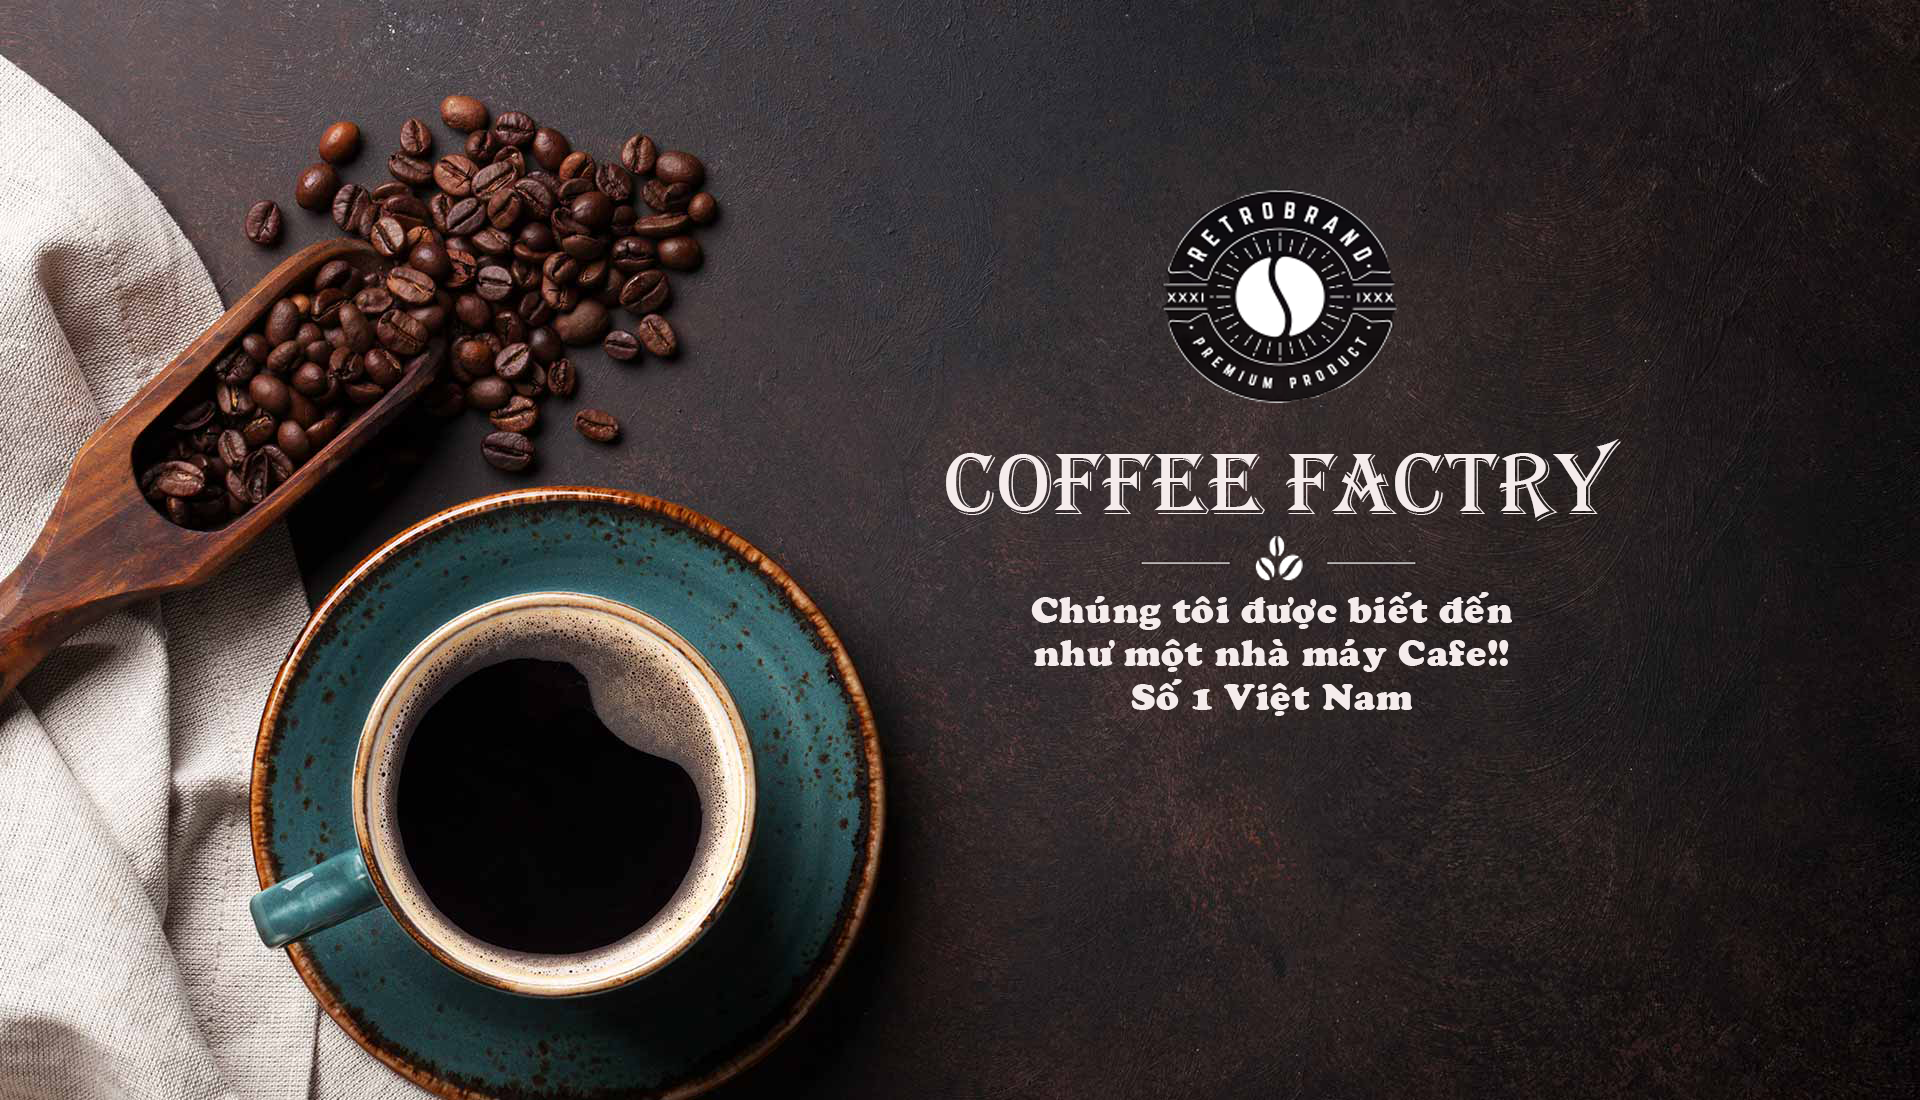
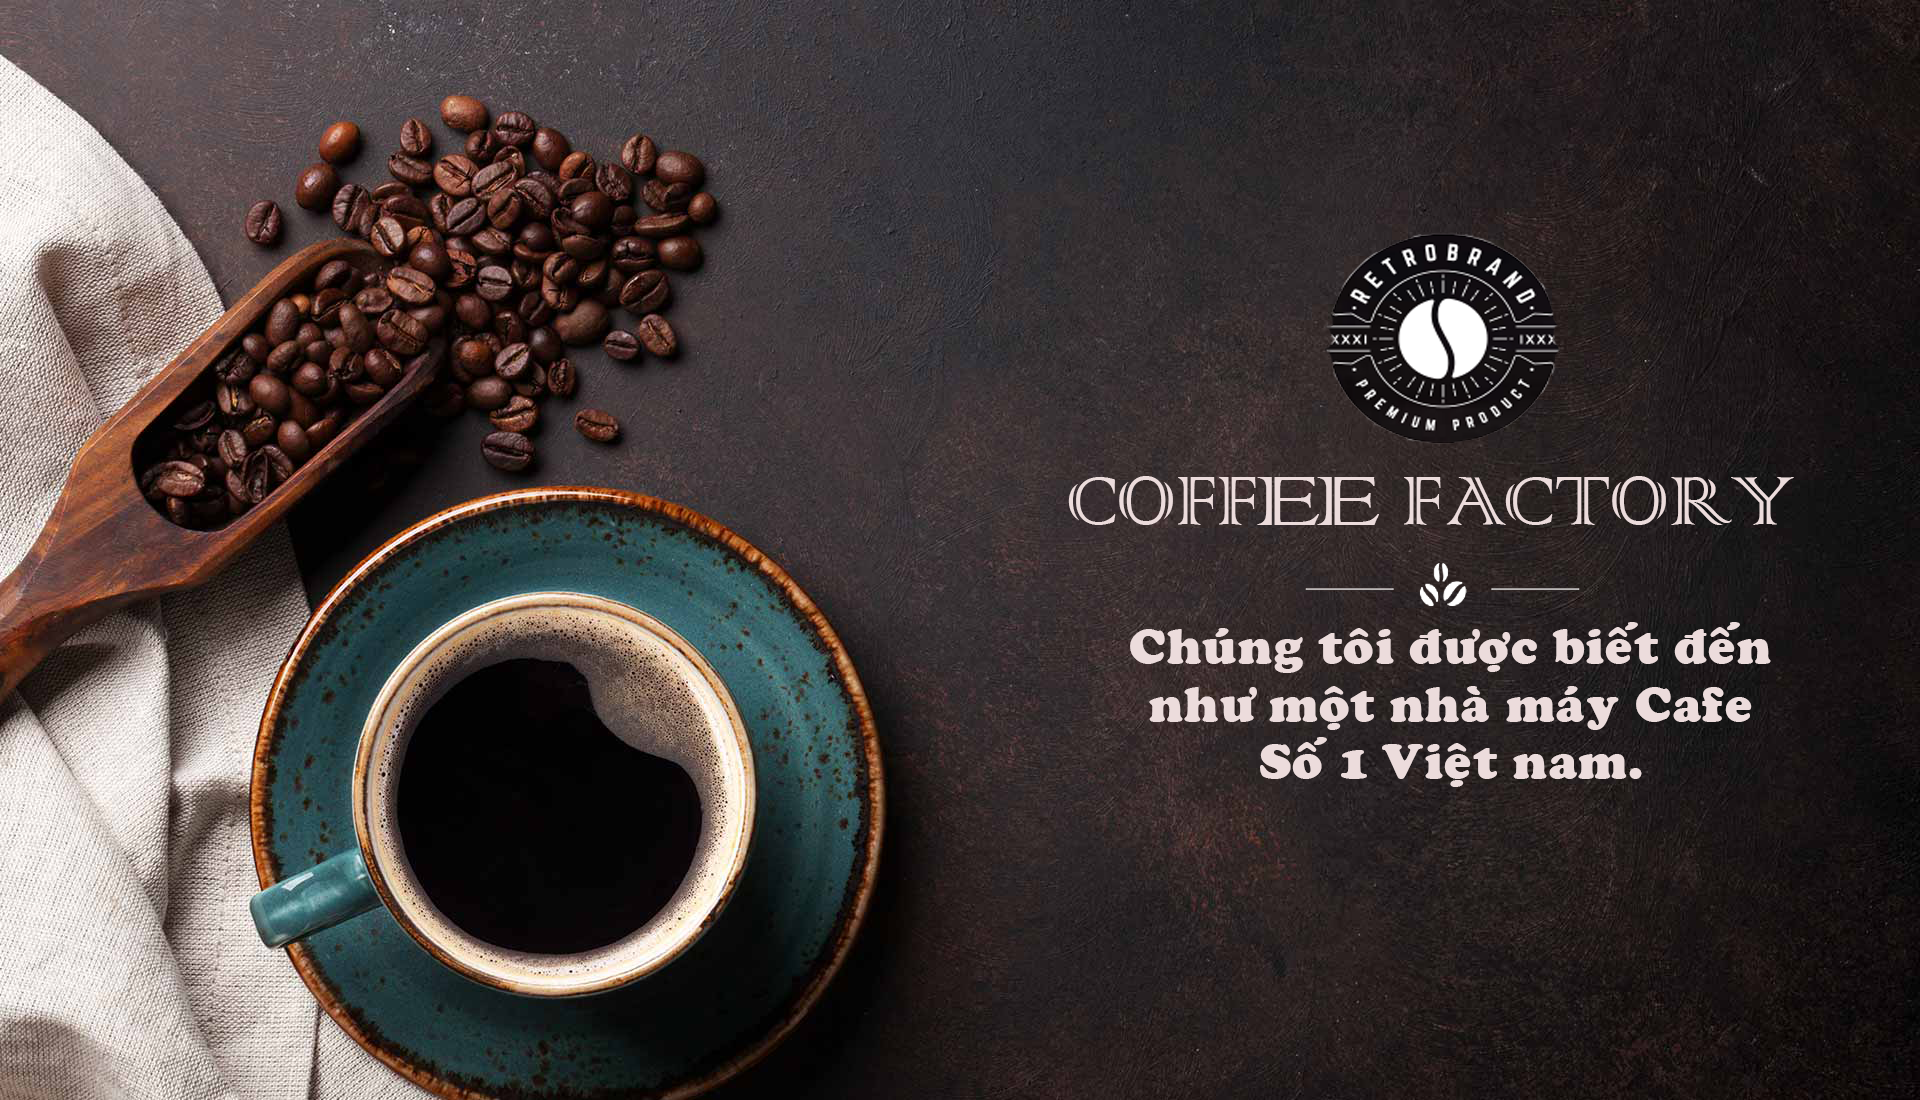
update

Changed region(s): [[0.4688, 0.1545, 0.9375, 0.7109]]

diff --git a/HOME_NEW.html b/HOME_NEW.html
@@ -116,7 +116,7 @@
                 </li>
                 <li>
                     <img src="images/NEW/icon5.png" style="vertical-align:middle">
-                    <h3>CÁC ĐỒ UỐNG KHÁC</h3>
+                    <h3>Đồ ăn khác</h3>
                     <p> Đồ uống khác thì ngon tuyệt không kém !!!</p>
                 </li>
             </ul>
@@ -227,7 +227,7 @@
                     <li class="foot" onclick="mo(4)">
                         <p>
                             <img src="images/tuicafe.png"/>
-                            <br> Đồ uống tai nhà
+                            <br> Đồ ăn khác
                         </p>
                     </li>
                     <li class="foot" onclick="mo(5)">
@@ -243,7 +243,7 @@
                     <li class="chon">
                         <div class="block_foot">
                             <a href="CafeDenDa.html">
-                                <img src="images/dohot1.png"/>
+                                <img src="images/Menu_Coffee/ca-phe-den-da.jpg" style="height:100px;width:142px" />
                                 <p>
                                     Cafe đen<br/>
                                     Giá: 30.000 đ<br/>
@@ -254,9 +254,9 @@
                     </li>
                     <li class="chon">
                         <div class="block_foot">
-                            <a href="CafeDenDa.html">
-                                <img src="images/dohot2.png"/>
-                                <p> Cafe đá<br/>
+                            <a href="">
+                                <img src="images/Menu_Coffee/cold-brew-sua-tuoi.jpg" style="height:100px;width:142px"/>
+                                <p> Cold Brew sữa tươi<br/>
                                     Giá: 30.000 đ<br/>
                                     <img src="images/muado.png" class="muado"/>
                                 </p>
@@ -266,9 +266,9 @@
                     <li class="chon">
                         <div class="block_foot">
                             <a href="MochaDa.html">
-                                <img src="images/dohot3.png"/>
+                                <img src="images/Menu_Coffee/mocha-da.jpg" style="height:100px;width:142px"/>
                                 <p>
-                                    Cafe Mocha<br/>
+                                    Mocha Đá<br/>
                                     Giá: 40.000 đ<br/>
                                     <img src="images/muado.png" class="muado"/>
                                 </p>
@@ -278,10 +278,10 @@
                     </li>
                     <li class="chon">
                         <div class="block_foot">
-                            <img src="images/dohot4.png"/>
+                            <img src="images/Menu_Coffee/caramel-macchiato-da.jpg" style="height:100px;width:142px"/>
                             <a href="CaramelMacchiatoDa.html">
                                 <p>
-                                    Latte Machino<br/>
+                                    Caramel Macchia to Đá<br/>
                                     Giá: 35.000 đ<br/>
                                     <img src="images/muado.png" class="muado"/>
                                 </p>
@@ -304,7 +304,7 @@
                     <li class="chon">
                         <div class="block_foot">
                             <a href="CapuDa.html">
-                                <img src="images/Menu_Coffee/capu-da.jpg" style="height:100px;width:142px"/>
+                                <img src="images/Menu_Coffee/capu-da.jpg" style="height:100px;width:142px" style="height:100px;width:142px"/>
                                 <p>
                                     Capu đá<br/>
                                     Giá: 40.000 đ<br/>

diff --git a/css/HOME_NEW.css b/css/HOME_NEW.css
@@ -38,8 +38,8 @@ li{
     color: white;
     position: relative;
     z-index: 99;
-    left: 1150px;
-    top: -427px;
+    left: 1280px;
+    top: -397px;
     font-size: 20px;
     text-align: center;
     font-weight: 500;
